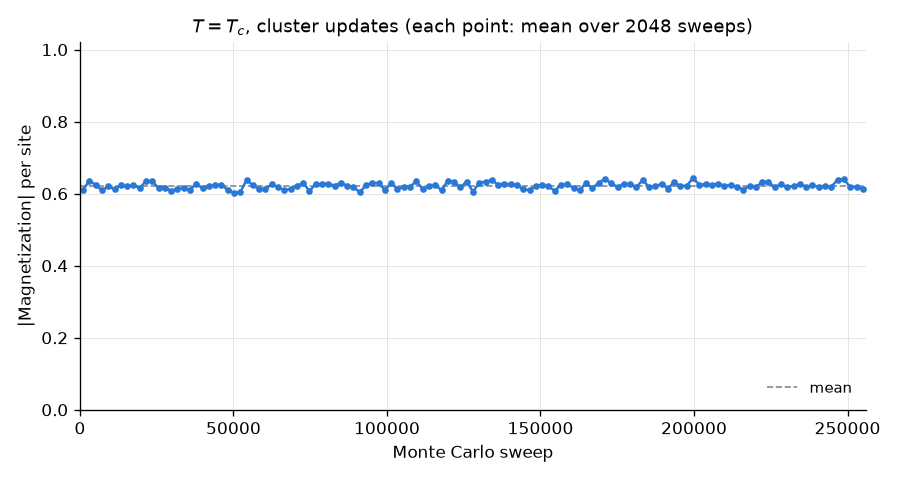
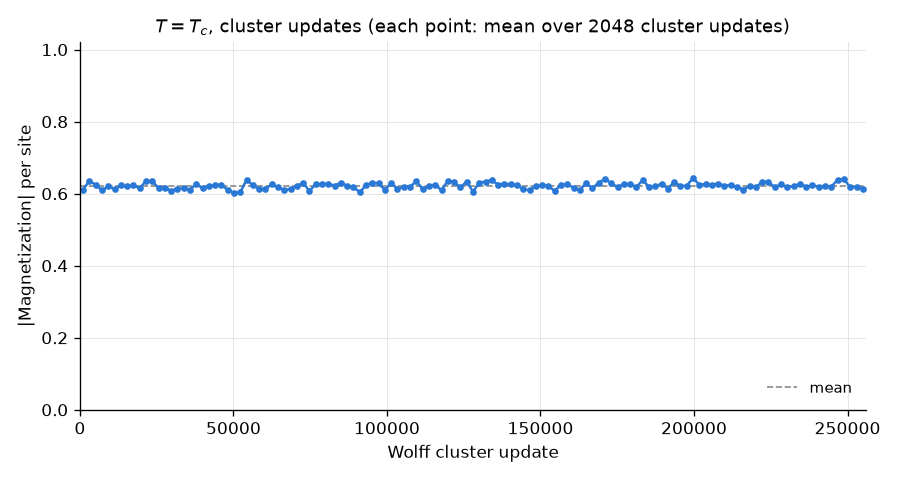
Label MC-01b cluster time axis in cluster updates, not sweeps
In spinmc a step is a full sweep for local updates but a single Wolff
cluster flip for cluster updates (AbstractSpinSim::dostep calls
do_update once; the cluster do_update grows one cluster), while
THERMALIZATION counts flipped spins / N. Relabel the cluster figure and
the plotting code, explain what SWEEPS counts in each mode, and limit the
"UPDATE defaults to cluster" statement to unfrustrated models. The figure
is replotted from the same run, so the quoted numbers are unchanged.
Applied to en, zh-cn and ja.

Changed region(s): [[0.1556, 0.0312, 0.8711, 0.0938], [0.4356, 0.9062, 0.6222, 0.9688]]

diff --git a/content/ja/tutorials/mcs/mc01b.md b/content/ja/tutorials/mcs/mc01b.md
@@ -85,7 +85,8 @@ parms_cluster = [dict(parms[0], UPDATE="cluster")]
 ```
 
 `UPDATE` は局所的な単一スピン更新（`"local"`）とクラスター更新（`"cluster"`）を選択します。
-省略すると `spinmc` はクラスター更新を使うため、ここでは明示的に指定し、更新方法だけが異なる 2 つ目のパラメータセットをクラスター更新の実行用に定義します。
+このイジング模型のようなフラストレーションのない模型では、省略すると `spinmc` はクラスター更新を使うため、ここでは明示的に指定し、更新方法だけが異なる 2 つ目のパラメータセットをクラスター更新の実行用に定義します。
+ステップ数の意味に注意してください。局所更新では 1 ステップがすべての格点にわたる 1 スイープですが、クラスター更新では `SWEEPS` は 1 回の Wolff クラスター反転（それぞれ 1 回測定）を数えます。`THERMALIZATION` はどちらの場合も、反転したスピン数を格点数で割った値で数えます。
 
 2 つのパラメータセットをそれぞれ XML 入力ファイルに書き出し、`spinmc` を実行します。
 
@@ -99,7 +100,7 @@ pyalps.runApplication('spinmc', input_file, Tmin=10, writexml=True)
 
 `Tmin` は、シミュレーションが終了したかどうかをスケジューラが確認する間隔の最小値（秒）です。
 シミュレーションは次の確認まで測定を続けるため、1 回の実行で `SWEEPS` より多くの測定が行われることがあります。
-私たちの実行では、局所更新で約 $1.5 \times 10^5$ 回、クラスター更新で約 $2.5 \times 10^5$ 回の測定が得られました。そのため、以下の図の時間軸は 50000 スイープを超えています。
+私たちの実行では、局所更新で約 $1.5 \times 10^5$ 回、クラスター更新で約 $2.5 \times 10^5$ 回の測定が得られました。そのため、以下の図の時間軸は 50000 ステップを超えています。
 
 ### 時系列の確認
 
@@ -122,9 +123,12 @@ for prefix, update in [('parm1a', 'local'), ('parm1b', 'cluster')]:
     plt.plot(sweeps, ts_M / binsize, 'o-')
     plt.axhline(M, ls='--', color='gray', label='mean')
     plt.ylim(0, 1)
-    plt.xlabel('Monte Carlo sweep')
+    # spinmc counts one step as a full sweep for local updates,
+    # but as a single Wolff cluster flip for cluster updates
+    unit = 'sweeps' if update == 'local' else 'cluster updates'
+    plt.xlabel('Monte Carlo ' + unit)
     plt.ylabel('|Magnetization| per site')
-    plt.title('T = T_c, %s updates (each point: mean over %d sweeps)' % (update, binsize))
+    plt.title('T = T_c, %s updates (each point: mean over %d %s)' % (update, binsize, unit))
     plt.legend()
 plt.show()
 ```
@@ -142,7 +146,7 @@ plt.show()
 
 ![](/figs/mcs01btimeseries_cluster.png)
 
-クラスター更新は相関したクラスター全体を反転させ、数ステップで相関が失われるため、各ビンの平均値は平均 $\langle |M| \rangle \approx 0.62$ の近くにとどまります。
+クラスター更新は相関したクラスター全体を反転させ、数回のクラスター更新で相関が失われるため、各ビンの平均値は平均 $\langle |M| \rangle \approx 0.62$ の近くにとどまります。
 個々の測定値は依然として大きく揺らぎます（1 回の測定あたりの標準偏差は約 0.17 で、これは本物の臨界揺らぎです）が、その揺らぎは各ビンの中で平均化されます。
 2 つの実行の平均値は誤差の範囲内で一致します（私たちの実行では、局所更新で $0.611 \pm 0.010$、クラスター更新で $0.622 \pm 0.001$）。ただし、クラスター更新の誤差棒は 10 分の 1 以下です。
 

diff --git a/content/en/tutorials/mcs/mc01b.md b/content/en/tutorials/mcs/mc01b.md
@@ -85,7 +85,8 @@ parms_cluster = [dict(parms[0], UPDATE="cluster")]
 ```
 
 `UPDATE` selects local single-spin updates (`"local"`) or cluster updates (`"cluster"`).
-If it is omitted, `spinmc` uses cluster updates, so we set it explicitly and define a second, otherwise identical, parameter set for a cluster-update run.
+If it is omitted, `spinmc` uses cluster updates for unfrustrated models such as this Ising model, so we set it explicitly and define a second, otherwise identical, parameter set for a cluster-update run.
+Note what the step counts mean: with local updates one step is a sweep over all sites, but with cluster updates `SWEEPS` counts single Wolff cluster flips (one measurement each), while `THERMALIZATION` counts flipped spins divided by the number of sites in both cases.
 
 Write both parameter sets to XML input files and run `spinmc`:
 
@@ -99,7 +100,7 @@ pyalps.runApplication('spinmc', input_file, Tmin=10, writexml=True)
 
 `Tmin` is the minimum time in seconds between the scheduler's checks of whether a simulation has finished.
 The simulation keeps measuring until the next check, so a run can contain more than `SWEEPS` measurements.
-In our runs this gave about $1.5 \times 10^5$ measurements with local updates and $2.5 \times 10^5$ with cluster updates, which is why the time axes in the figures below extend beyond 50000 sweeps.
+In our runs this gave about $1.5 \times 10^5$ measurements with local updates and $2.5 \times 10^5$ with cluster updates, which is why the time axes in the figures below extend beyond 50000 steps.
 
 ### Inspecting the time series
 
@@ -122,9 +123,12 @@ for prefix, update in [('parm1a', 'local'), ('parm1b', 'cluster')]:
     plt.plot(sweeps, ts_M / binsize, 'o-')
     plt.axhline(M, ls='--', color='gray', label='mean')
     plt.ylim(0, 1)
-    plt.xlabel('Monte Carlo sweep')
+    # spinmc counts one step as a full sweep for local updates,
+    # but as a single Wolff cluster flip for cluster updates
+    unit = 'sweeps' if update == 'local' else 'cluster updates'
+    plt.xlabel('Monte Carlo ' + unit)
     plt.ylabel('|Magnetization| per site')
-    plt.title('T = T_c, %s updates (each point: mean over %d sweeps)' % (update, binsize))
+    plt.title('T = T_c, %s updates (each point: mean over %d %s)' % (update, binsize, unit))
     plt.legend()
 plt.show()
 ```
@@ -142,7 +146,7 @@ Consecutive bins are therefore strongly correlated, and the run contains compara
 
 ![](/figs/mcs01btimeseries_cluster.png)
 
-Cluster updates flip whole correlated clusters and decorrelate within a few steps, so the bin averages stay close to the mean, $\langle |M| \rangle \approx 0.62$.
+Cluster updates flip whole correlated clusters and decorrelate within a few cluster updates, so the bin averages stay close to the mean, $\langle |M| \rangle \approx 0.62$.
 Individual measurements still fluctuate strongly (a standard deviation of about 0.17 per measurement, a genuine critical fluctuation), but these fluctuations average out within each bin.
 Both runs give the same mean within their error bars — in our runs $0.611 \pm 0.010$ with local updates and $0.622 \pm 0.001$ with cluster updates — but the cluster-update error bar is more than ten times smaller.
 

diff --git a/content/zh-cn/tutorials/mcs/mc01b.md b/content/zh-cn/tutorials/mcs/mc01b.md
@@ -85,7 +85,8 @@ parms_cluster = [dict(parms[0], UPDATE="cluster")]
 ```
 
 `UPDATE` 用于选择局域单自旋更新（`"local"`）或团簇更新（`"cluster"`）。
-如果省略该参数，`spinmc` 会使用团簇更新，因此这里显式地设定它，并定义第二组除更新方式外完全相同的参数，用于团簇更新的模拟。
+对于像这里的伊辛模型这样无阻挫的模型，如果省略该参数，`spinmc` 会使用团簇更新，因此这里显式地设定它，并定义第二组除更新方式外完全相同的参数，用于团簇更新的模拟。
+注意步数的含义：局域更新时一步是对所有格点的一次扫描，而团簇更新时 `SWEEPS` 计数的是单次 Wolff 团簇翻转（每次翻转测量一次）；在两种情况下，`THERMALIZATION` 都按翻转的自旋数除以格点数来计数。
 
 把两组参数分别写入 XML 输入文件并运行 `spinmc`：
 
@@ -99,7 +100,7 @@ pyalps.runApplication('spinmc', input_file, Tmin=10, writexml=True)
 
 `Tmin` 是调度器两次检查模拟是否结束之间的最短时间（单位：秒）。
 在下一次检查之前模拟会继续测量，因此一次运行得到的测量次数可能多于 `SWEEPS`。
-在我们的运行中，局域更新得到约 $1.5 \times 10^5$ 次测量，团簇更新得到约 $2.5 \times 10^5$ 次测量，所以下图的时间轴超过了 50000 次扫描。
+在我们的运行中，局域更新得到约 $1.5 \times 10^5$ 次测量，团簇更新得到约 $2.5 \times 10^5$ 次测量，所以下图的时间轴超过了 50000 步。
 
 ### 检查时间序列
 
@@ -122,9 +123,12 @@ for prefix, update in [('parm1a', 'local'), ('parm1b', 'cluster')]:
     plt.plot(sweeps, ts_M / binsize, 'o-')
     plt.axhline(M, ls='--', color='gray', label='mean')
     plt.ylim(0, 1)
-    plt.xlabel('Monte Carlo sweep')
+    # spinmc counts one step as a full sweep for local updates,
+    # but as a single Wolff cluster flip for cluster updates
+    unit = 'sweeps' if update == 'local' else 'cluster updates'
+    plt.xlabel('Monte Carlo ' + unit)
     plt.ylabel('|Magnetization| per site')
-    plt.title('T = T_c, %s updates (each point: mean over %d sweeps)' % (update, binsize))
+    plt.title('T = T_c, %s updates (each point: mean over %d %s)' % (update, binsize, unit))
     plt.legend()
 plt.show()
 ```
@@ -142,7 +146,7 @@ plt.show()
 
 ![](/figs/mcs01btimeseries_cluster.png)
 
-团簇更新一次翻转整个关联的团簇，几步之内就能去关联，因此各分箱的平均值都接近均值 $\langle |M| \rangle \approx 0.62$。
+团簇更新一次翻转整个关联的团簇，几次团簇更新之内就能去关联，因此各分箱的平均值都接近均值 $\langle |M| \rangle \approx 0.62$。
 单次测量本身仍有很大的涨落（每次测量的标准差约为 0.17，这是真实的临界涨落），但这些涨落在每个分箱内被平均掉了。
 两次运行给出的均值在误差范围内一致——在我们的运行中，局域更新为 $0.611 \pm 0.010$，团簇更新为 $0.622 \pm 0.001$——但团簇更新的误差棒要小十倍以上。
 
